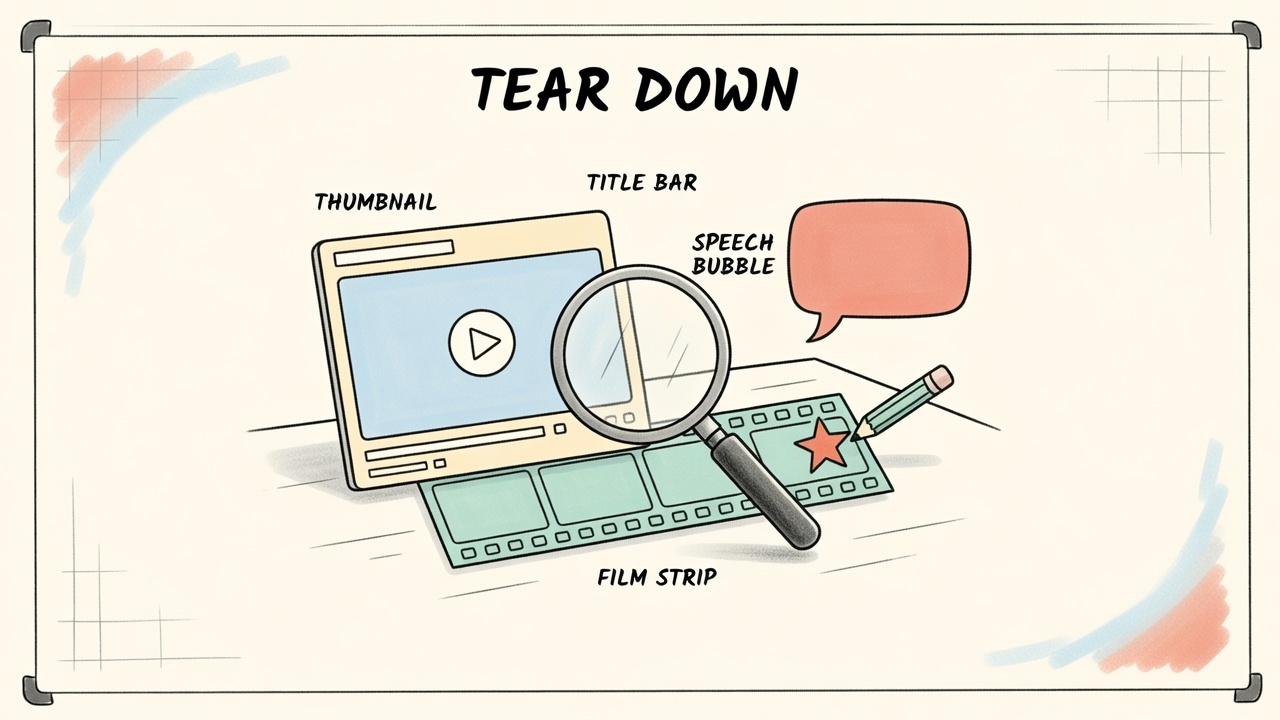
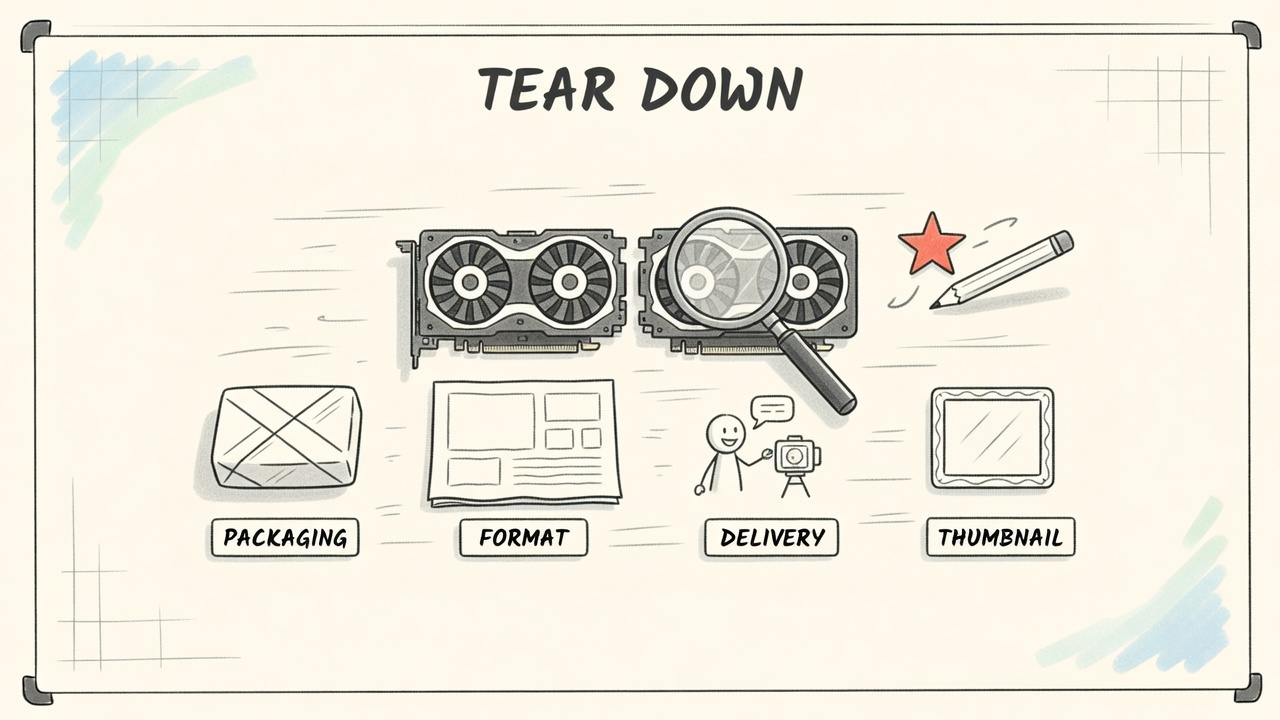
example: the tear-down sketch shows the four things the beat says to study

diff --git a/skills/simple-artifact/example/index.html b/skills/simple-artifact/example/index.html
@@ -141,7 +141,7 @@ a.pack-link:hover{color:var(--accent)}
 <section class="beat"><div class="n">3.5 · Step one</div><h3>Pick one platform. Just one.</h3><figure><img src="img/s09.jpg" alt="Sketch of a hand pointing at one phone in a row of five, the chosen one circled in red, titled PICK ONE" loading="lazy"></figure><ul class="cues"><li>TikTok, Instagram, X, Facebook, Threads, YouTube Shorts.</li><li>The one you are most comfortable on, ideally one you already use daily.</li><li>Every platform has a culture. Go against the flow and you read as the used car salesman.</li><li>Weigh where your ideal clients hang out, including age demographics.</li><li>Not on social yet? Start now. Follow, comment, support others before posting.</li></ul><div class="key">One platform, the one you already live on.</div><div class="loop"><span class="q">?</span><p>How did comments, not posts, bring 8k followers?</p></div></section>
 <section class="beat"><div class="n">3.6 · Step two</div><h3>Set up a professional profile</h3><figure><img src="img/s10.jpg" alt="Sketch of a phone profile page with banner, avatar and a circled link icon at the top, titled LINK IN BIO" loading="lazy"></figure><ul class="cues"><li>Community-professional bio, banner and photo where supported.</li><li>Main link at the top of the bio or profile.</li><li>Now &quot;see the link in my bio&quot; works, every time.</li></ul></section>
 <section class="beat"><div class="n">3.7 · Step three</div><h3>Research outliers: the magic quadrant</h3><figure><img src="img/s11.jpg" alt="Sketch of a supply versus demand chart with the magic quadrant shaded top left, three blue dots inside it, and a figure saying act now, titled SUPPLY vs DEMAND" loading="lazy"></figure><ul class="cues"><li>Tool: Eden, link in the description. Finds trending topics that are outliers on any platform.</li><li>An outlier is the algorithm&#x27;s signal: this creator uniquely met demand in that moment.</li><li>Perishable. Supply catches up and the algorithm moves on.</li><li>Rule: 3x or more outliers, within a week of posting. The magic quadrant, video linked above.</li></ul><div class="key">3x outlier, under a week old. Fresh signal only.</div></section>
-<section class="beat"><div class="n">3.8 · Step four</div><h3>Tear the winners down</h3><figure><img src="img/s12.jpg" alt="Sketch of a video frame taken apart on a workbench under a magnifying glass, titled TEAR DOWN" loading="lazy"></figure><ul class="cues"><li>Study packaging, format, method of delivery, images and thumbnails.</li><li>Do not copy. Do not reinvent the wheel either.</li><li>Use them as a guide. Add your taste and point of view.</li><li>To break through: say something new, and above all, useful.</li></ul></section>
+<section class="beat"><div class="n">3.8 · Step four</div><h3>Tear the winners down</h3><figure><img src="img/s12.jpg" alt="Sketch of a winning video taken apart on a workbench into four labeled pieces, PACKAGING, FORMAT, DELIVERY and THUMBNAIL, under a magnifying glass with a pencil adding a red star, titled TEAR DOWN" loading="lazy"></figure><ul class="cues"><li>Study packaging, format, method of delivery, images and thumbnails.</li><li>Do not copy. Do not reinvent the wheel either.</li><li>Use them as a guide. Add your taste and point of view.</li><li>To break through: say something new, and above all, useful.</li></ul></section>
 <section class="beat"><div class="n">3.9 · Step five</div><h3>Four parts of content that works</h3><figure><img src="img/s13.jpg" alt="Sketch of four stacked blocks labeled HOOK, BODY, WIN and CTA, titled FOUR PARTS" loading="lazy"></figure><ul class="cues"><li>Hook: the promise. Body: the value. Win: a small insight or tool. CTA.</li><li>Short form is no different, just tighter. Tear down any winner and the four are there.</li></ul><div class="key">Hook, body, win, CTA. Even in 30 seconds.</div></section>
 <section class="beat"><div class="n">3.10 · The rule</div><h3>The CTA is never &quot;buy my thing&quot;</h3><figure><img src="img/s14.jpg" alt="Sketch of a well, a gift box with an envelope, and a crossed-out price tag, titled FREE FIRST" loading="lazy"></figure><div class="vs"><div class="crowd"><b>What the crowd says</b><ul class=""><li>Every post should sell. Always pitch the offer.</li></ul></div><div class="me"><b>What I say</b><ul class=""><li>People do not like being sold on short form. Sell there and you poison your well.</li><li>Point to something free to capture the email, or to a long form piece.</li></ul></div></div><div class="key crit">Sell on short form and you poison the well.</div></section>
 <section class="beat"><div class="n">3.11 · Hack</div><h3>Comment early, add value</h3><figure><img src="img/s15.jpg" alt="Sketch of a viral post with a rocket, a comment bubble holding a lightbulb and an early clock, titled EARLY COMMENT" loading="lazy"></figure><ul class="cues"><li>Be early on others&#x27; posts that go viral.</li><li>Add real value. Not &quot;I agree&quot;, not &quot;good post&quot;.</li><li>People notice, check the bio, click the link.</li></ul></section>
